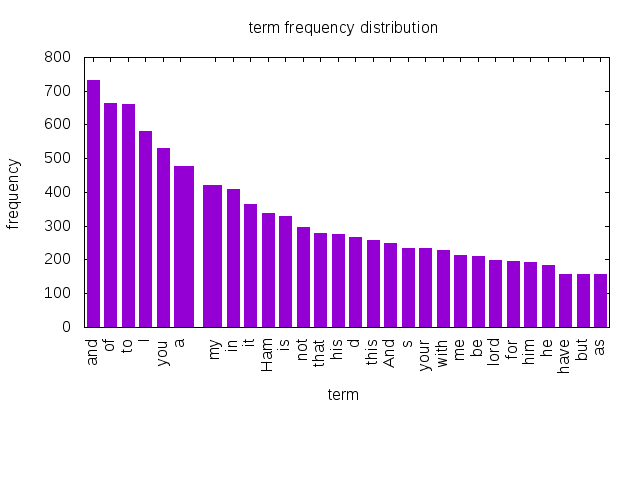
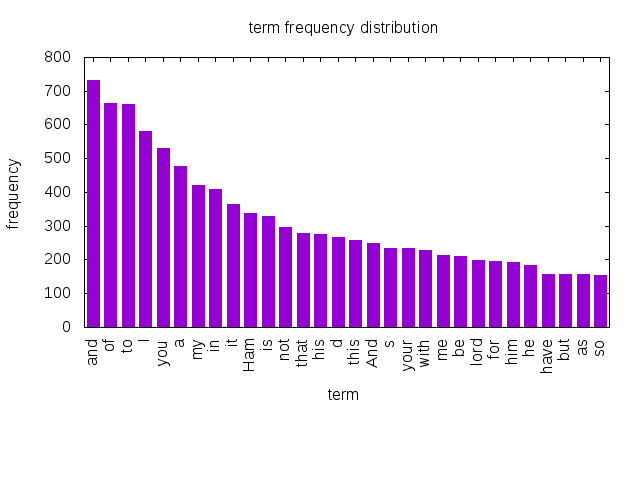
remove empty lines

diff --git a/tfd/src/main/java/ch/bfh/cas/bgd/ta/Application.java b/tfd/src/main/java/ch/bfh/cas/bgd/ta/Application.java
@@ -42,6 +42,7 @@ public class Application {
 			List<String> lines = sc.textFile(args[0]) //
 					.flatMap(s -> pattern.splitAsStream(s).iterator()) //
 					.mapToPair(s -> new Tuple2<String, Integer>(s, 1)) //
+					.filter(t -> t._1().length() > 0) //
 					.reduceByKey((x, y) -> x + y) //
 					.map(t -> t) //
 					.sortBy(t -> t._2(), false, 1) //
